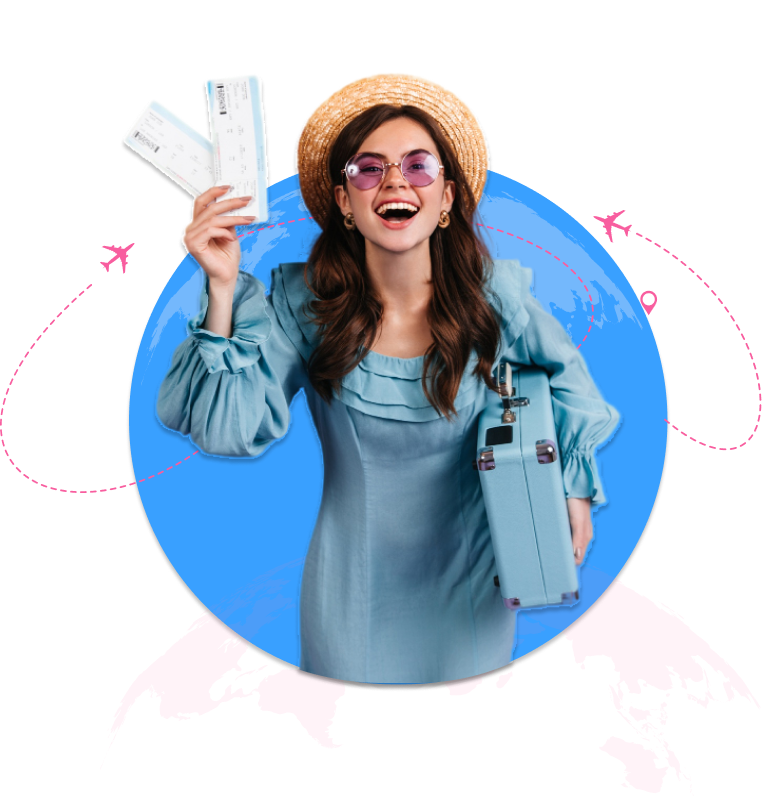
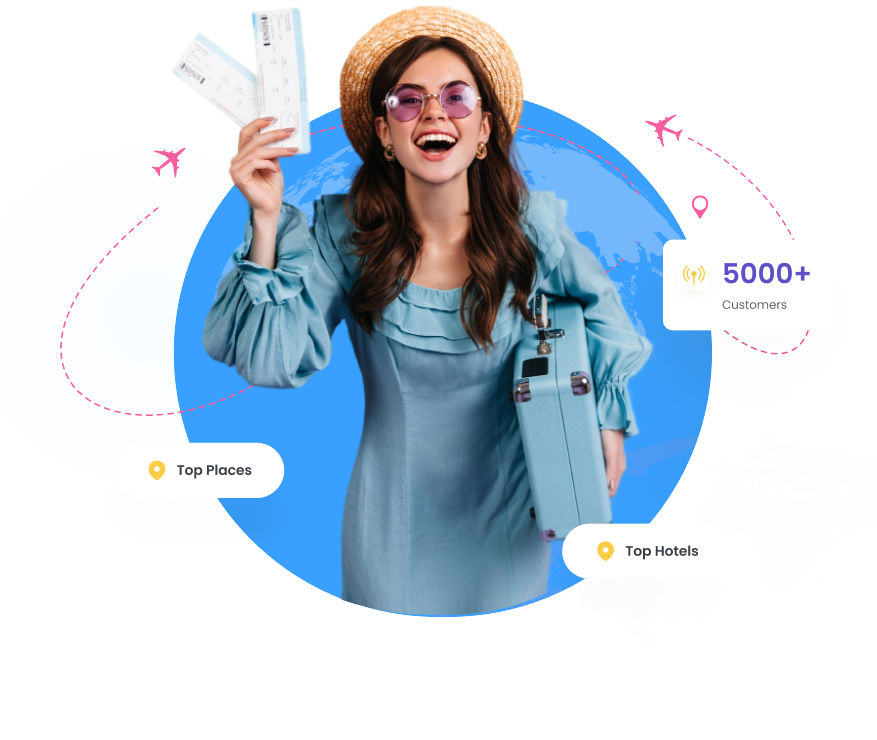
Hero image fixed

diff --git a/components/Hero.tsx b/components/Hero.tsx
@@ -36,7 +36,7 @@ const Hero = () => {
 
            <div className='flex w-full justify-center xl:justify-end items-end '>
            
-            <div className='w-[600px]'>
+            <div className='w-[600px] xl:w-[800px]'>
               <Image src={hero01} alt='hero01'/>
             </div>
             
